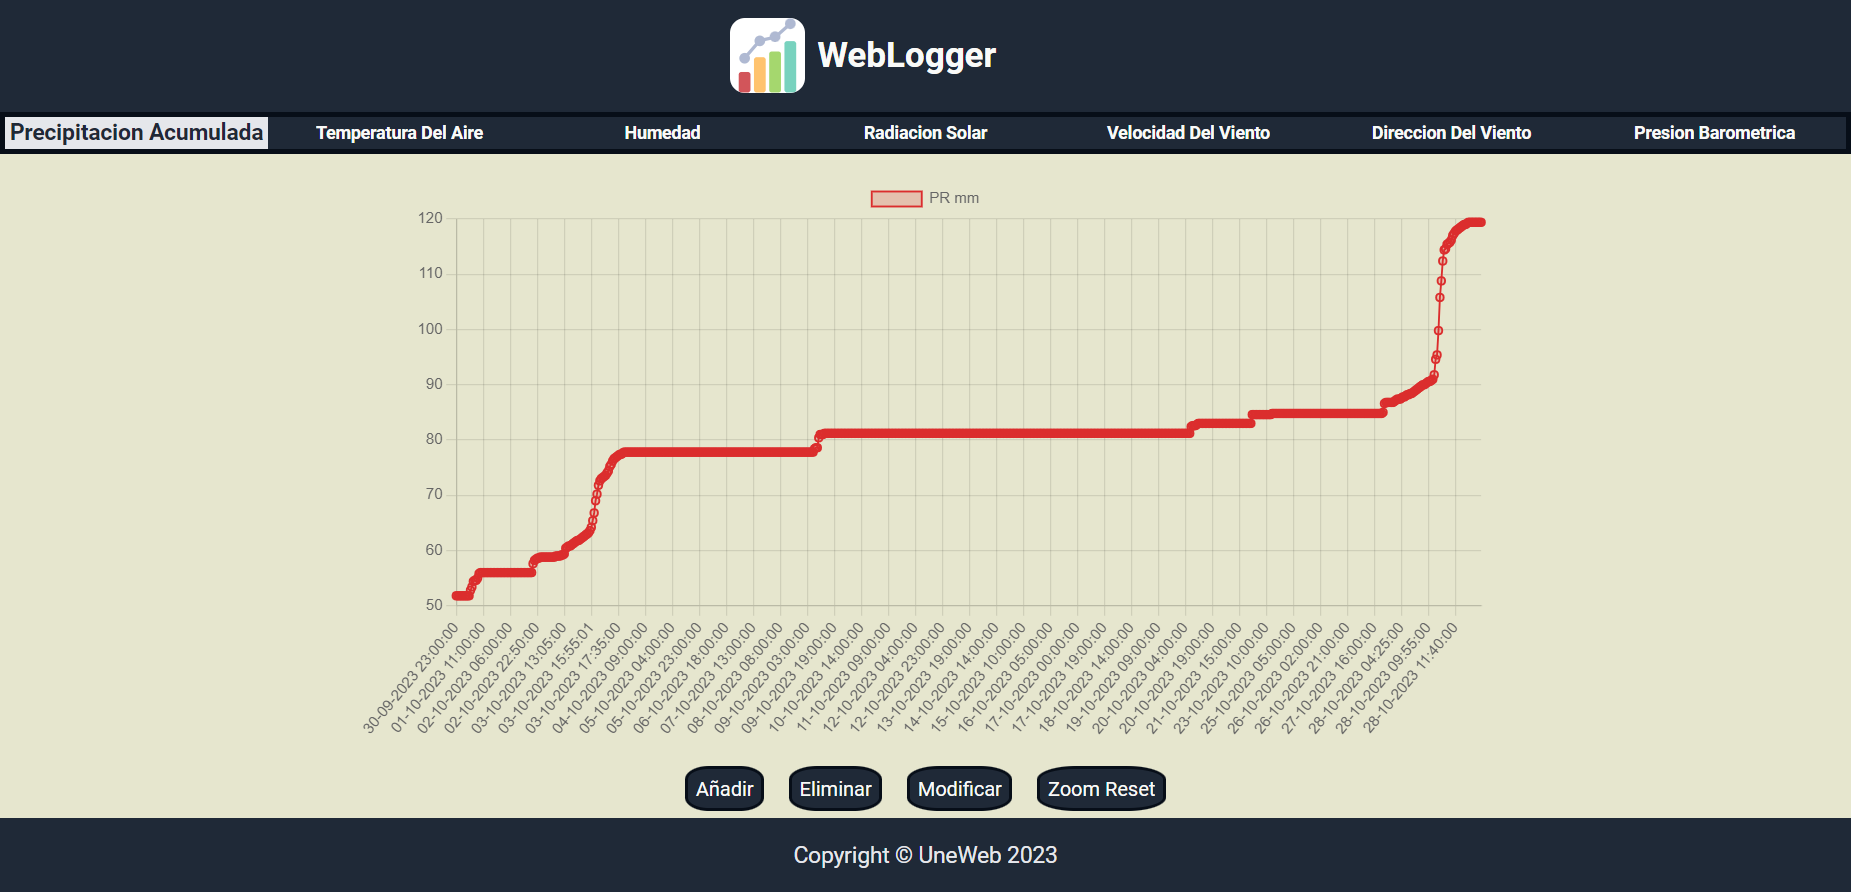
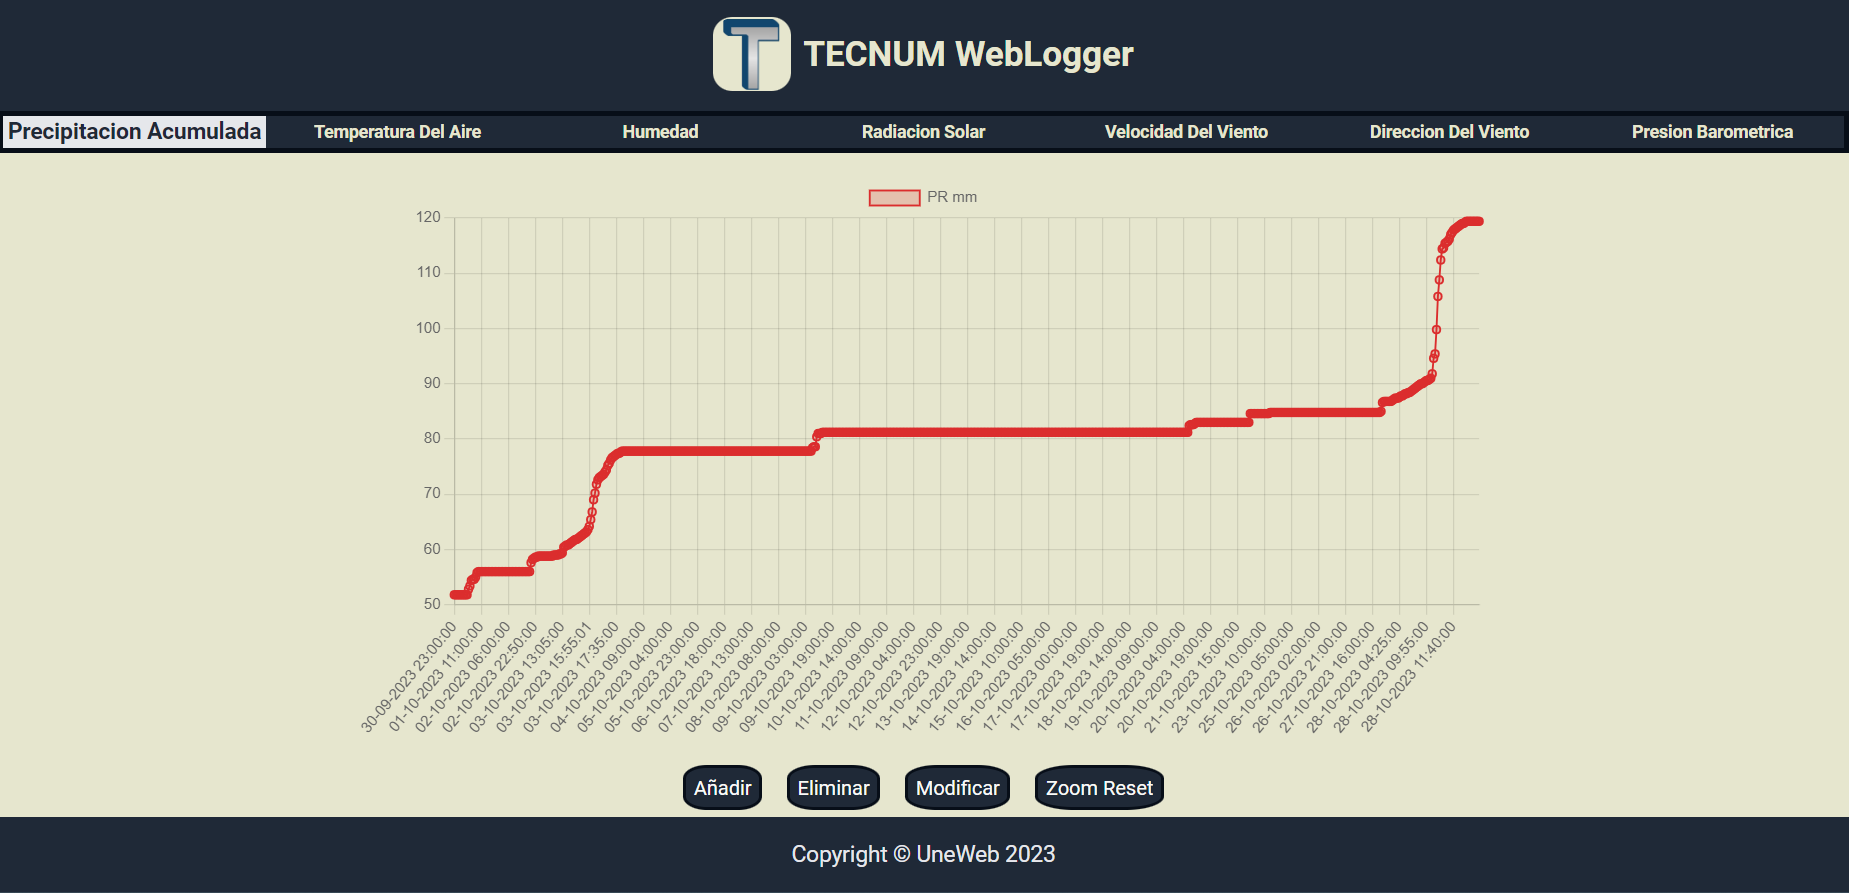
Small changes

diff --git a/styles/style.css b/styles/style.css
@@ -30,7 +30,7 @@ body {
 }
 
 .hero-container .logo a {
-    color: #F9FAF8;
+    color: rgb(230, 230, 206);
     font-size: 28px;
     font-weight: 700;
     display: flex;
@@ -42,8 +42,9 @@ body {
 
 .hero-container .logo img {
     max-width: 60px;
-    background-color: #fff;
-    border-radius: 20%;
+    background-color: rgb(230, 230, 206);
+    border-radius: 25%;
+    padding: 1px;
 }
 
 /******TABS******/
@@ -63,7 +64,7 @@ body {
     padding: 2px;
     background-color: #1f2937;
     font-size: 14px;
-    color: #F9FAF8;
+    color: rgb(230, 230, 206);
     cursor: pointer;
     border: none;
     font-weight: bold;

diff --git a/index.php b/index.php
@@ -9,13 +9,14 @@
 <head>
     <meta charset="UTF-8">
     <meta name="viewport" content="width=device-width, initial-scale=1.0">
-    <title>Web Logger</title>
+    <title>TECNUM WebLogger</title>
+    <link rel="icon" href="./img/LogoTECNUM.png">
     <link rel="stylesheet" href="./styles/style.css">
 </head>
 
 <body>
     <div class="hero-container">
-        <div class="logo"><a href="./index.php"><img src="./img/bar-chart-675.svg" alt="weblogger">WebLogger</a></div>
+        <div class="logo"><a href="./index.php"><img src="./img/LogoTECNUM.png" alt="weblogger">TECNUM WebLogger</a></div>
     </div>
     <div class="chart-container">
         <div class="tabs">
